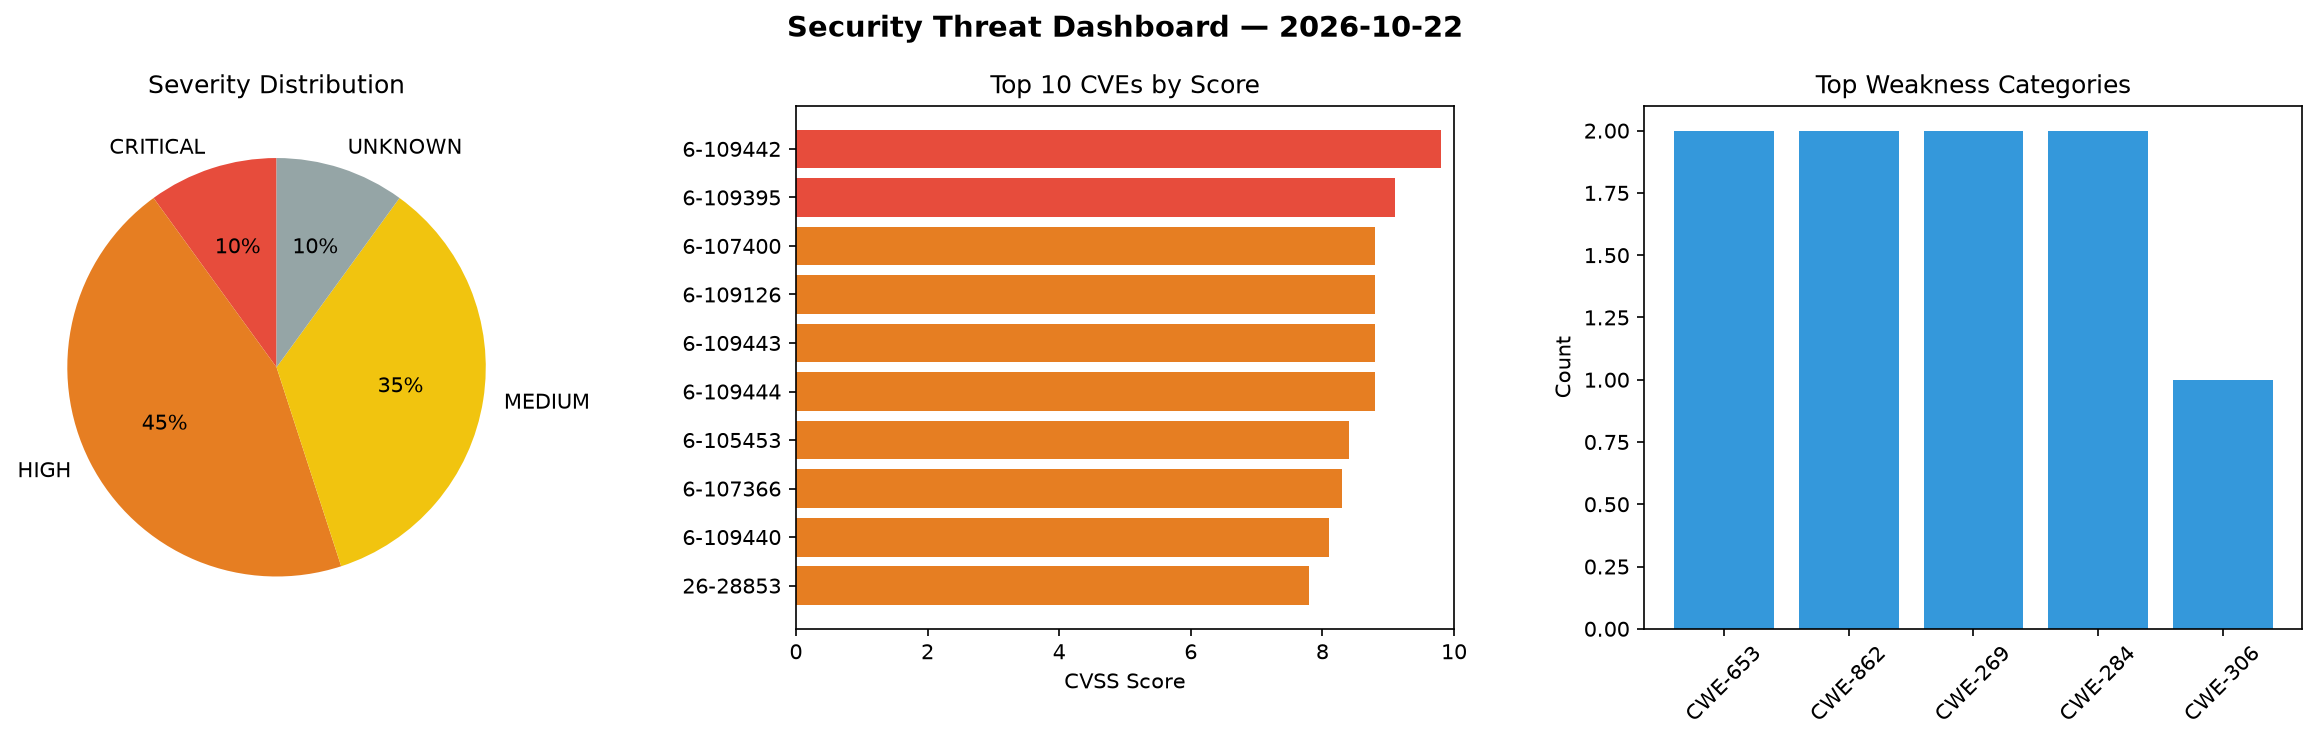
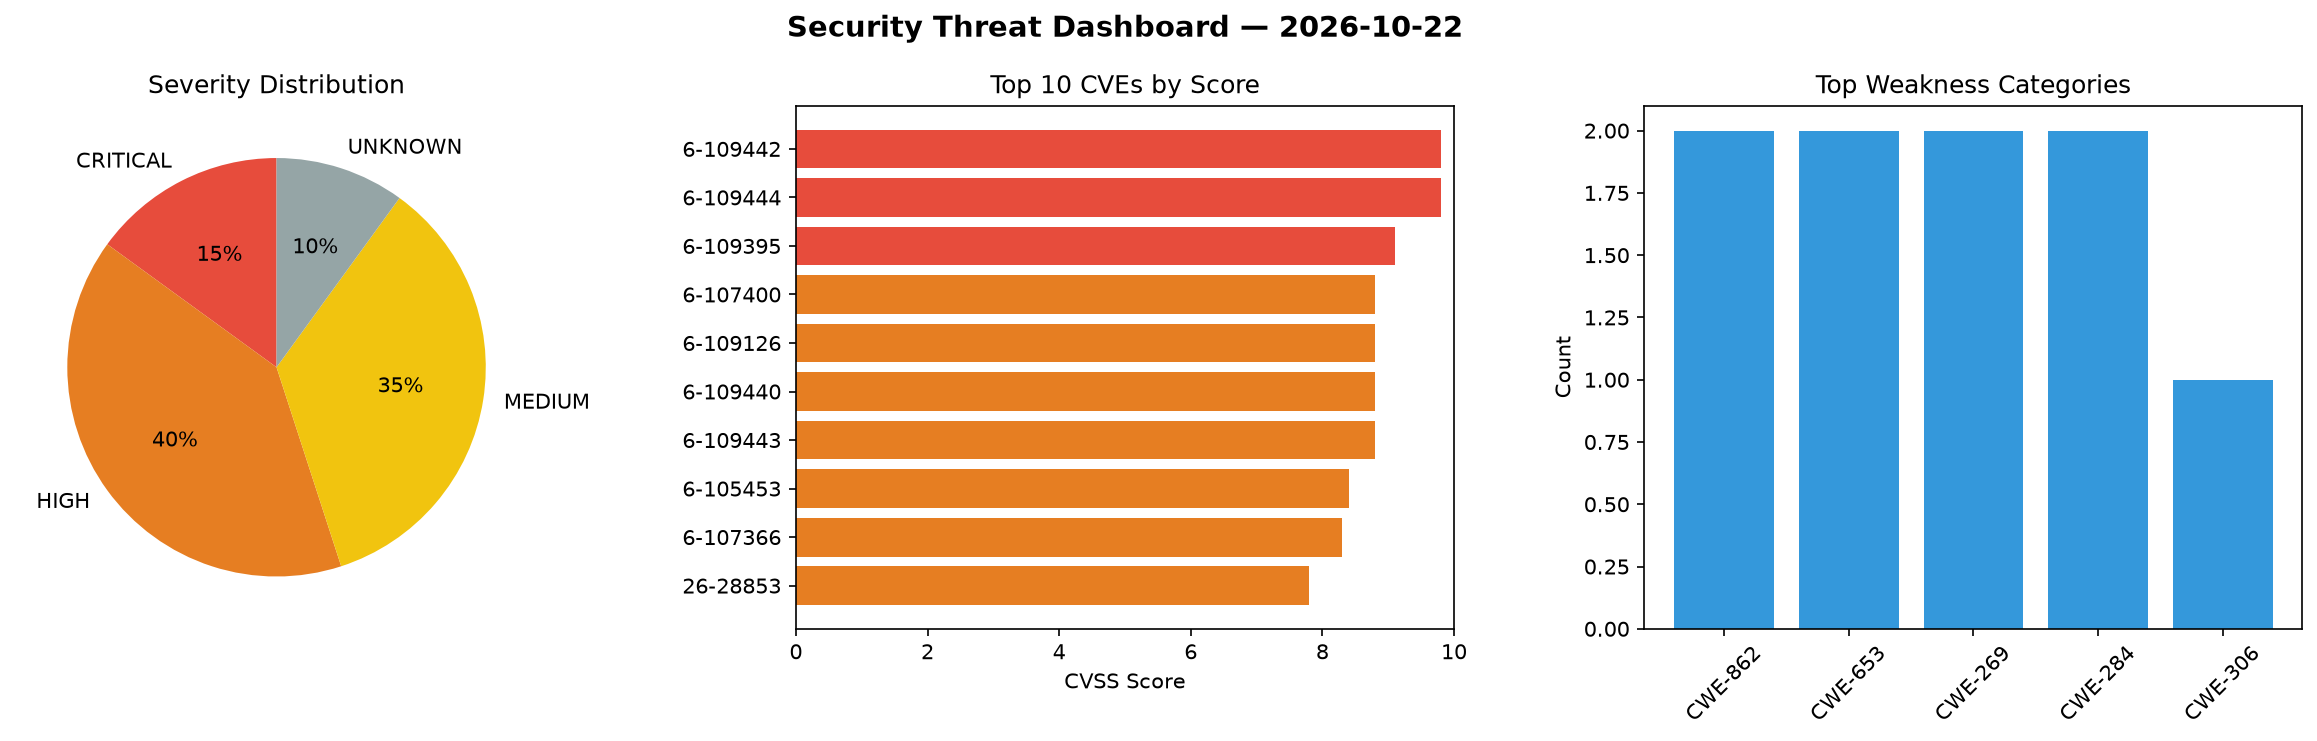
daily-experiments: security scan 2026-10-22T23:28

diff --git a/logs/2026-10-22.md b/logs/2026-10-22.md
@@ -1,6 +1,6 @@
 # Security Scan Report — 2026-10-22
 
-**Scan ID:** `ad5364bc84` | **CVEs:** 20 | **Threat Index:** 379.3
+**Scan ID:** `7a96dfc33a` | **CVEs:** 20 | **Threat Index:** 394.2
 
 ![Dashboard](2026-10-22_dashboard.png)
 
@@ -10,10 +10,10 @@
 
 | Metric | Value |
 |--------|-------|
-| Threat Index | 379.3 |
-| Critical CVEs | 2 |
-| CRITICAL | 2 |
-| HIGH | 9 |
+| Threat Index | 394.2 |
+| Critical CVEs | 3 |
+| CRITICAL | 3 |
+| HIGH | 8 |
 | MEDIUM | 7 |
 | UNKNOWN | 2 |
 
@@ -22,15 +22,15 @@
 | Metric | Today | Yesterday | Change |
 |--------|-------|-----------|--------|
 | total_cves | 20 | 20 | ➡ 0.0% |
-| threat_index | 379.3 | 208.7 | 📈 81.7% |
-| critical_count | 2 | 1 | 📈 100.0% |
+| threat_index | 394.2 | 208.7 | 📈 88.9% |
+| critical_count | 3 | 1 | 📈 200.0% |
 
 ## Top Weakness Categories
 
 | CWE | Count |
 |-----|-------|
-| CWE-653 | 2 |
 | CWE-862 | 2 |
+| CWE-653 | 2 |
 | CWE-269 | 2 |
 | CWE-284 | 2 |
 | CWE-306 | 1 |
@@ -40,14 +40,14 @@
 | CVE ID | Score | Severity | Description |
 |--------|-------|----------|-------------|
 | CVE-2026-109442 | 9.8 | CRITICAL | piflow 2.0.0 through 2.0.1 contains a remote code execution vulnerability in its... |
+| CVE-2026-109444 | 9.8 | CRITICAL | OpenSRE through 0.1.2026.10.19 contains an approval gate bypass vulnerability th... |
 | CVE-2026-109395 | 9.1 | CRITICAL | Ning compress-lzf before 1.2.0 contains an out-of-bounds memory access vulnerabi... |
 | CVE-2026-107400 | 8.8 | HIGH | IBM TRIRIGA Application Platform 5.0.0 through 5.0.8 could allow a remote authen... |
 | CVE-2026-109126 | 8.8 | HIGH | IBM Verify Identity Access 11.0.3.1 and IBM Security Verify Access 10.0.9.3 Appl... |
+| CVE-2026-109440 | 8.8 | HIGH | LangAlpha through 2026.09.07 contains an indirect prompt injection vulnerability... |
 | CVE-2026-109443 | 8.8 | HIGH | JoySafeter through 1.0.0 contains a remote code execution vulnerability that all... |
-| CVE-2026-109444 | 8.8 | HIGH | OpenSRE through 0.1.2026.10.19 contains an approval gate bypass vulnerability th... |
 | CVE-2026-105453 | 8.4 | HIGH | IBM Sterling Connect Direct for Unix 6.3.0.0 through 6.3.0.7 and 6.4.0.0 through... |
 | CVE-2026-107366 | 8.3 | HIGH | IBM Langflow OSS 1.0.0 through 1.12.4 contains three message endpoints that perf... |
-| CVE-2026-109440 | 8.1 | HIGH | LangAlpha through 2026.09.07 contains an indirect prompt injection vulnerability... |
 | CVE-2026-28853 | 7.8 | HIGH | The issue was addressed with improved checks. This issue is fixed in macOS Sequo... |
 | CVE-2026-105297 | 7.5 | HIGH | Summary
 
